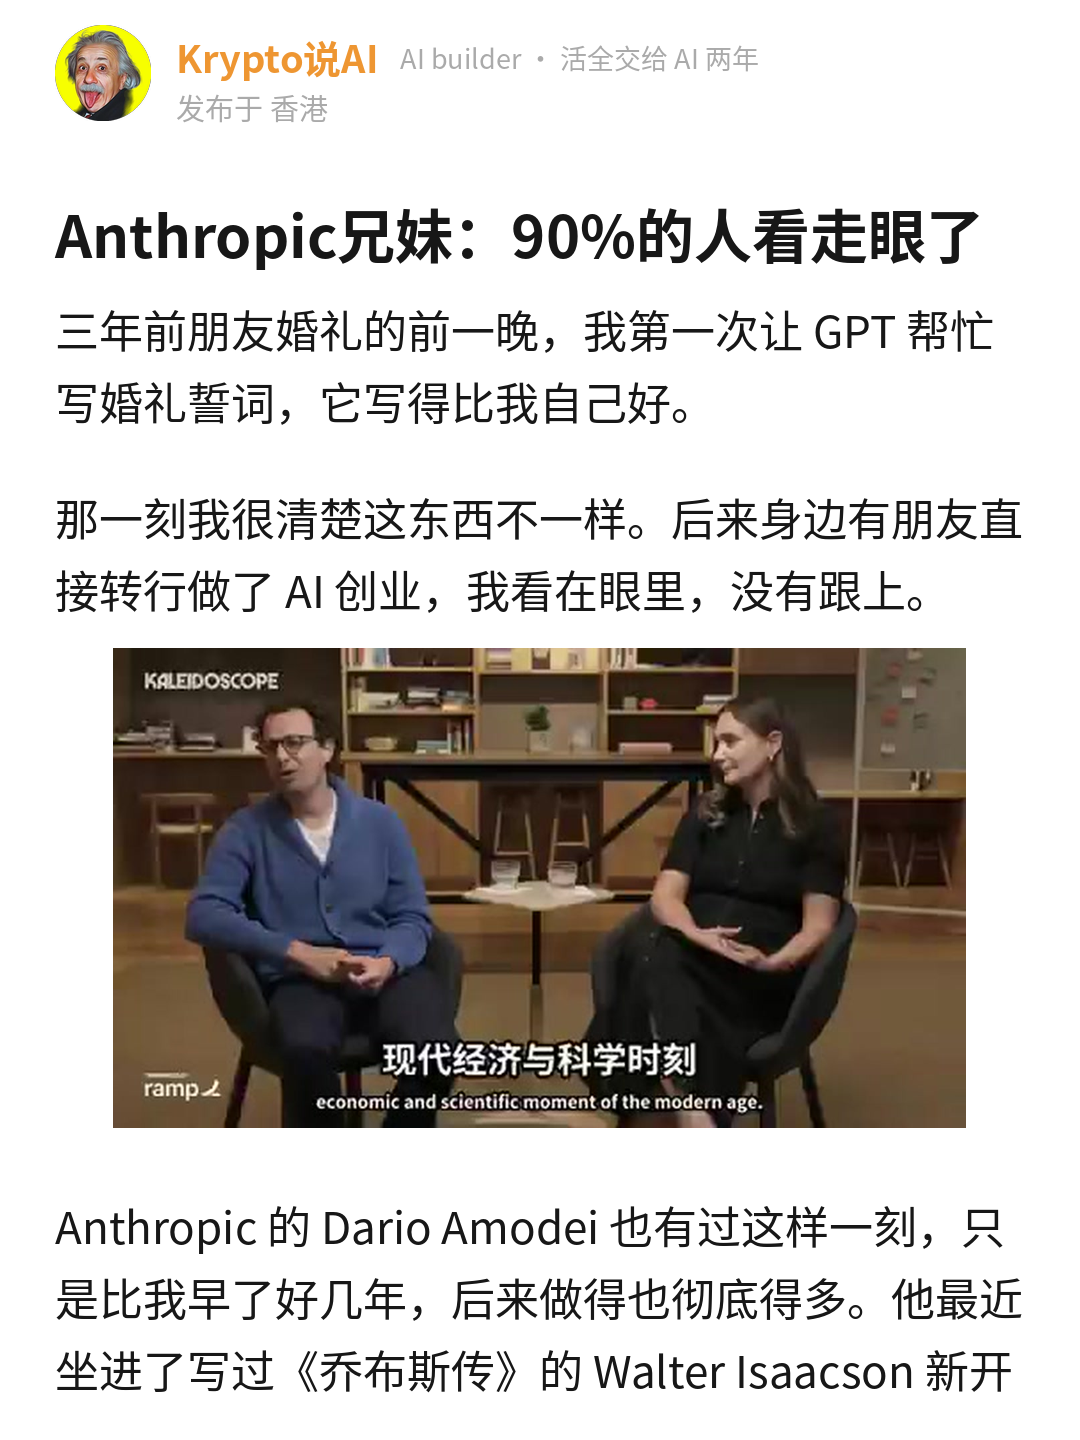
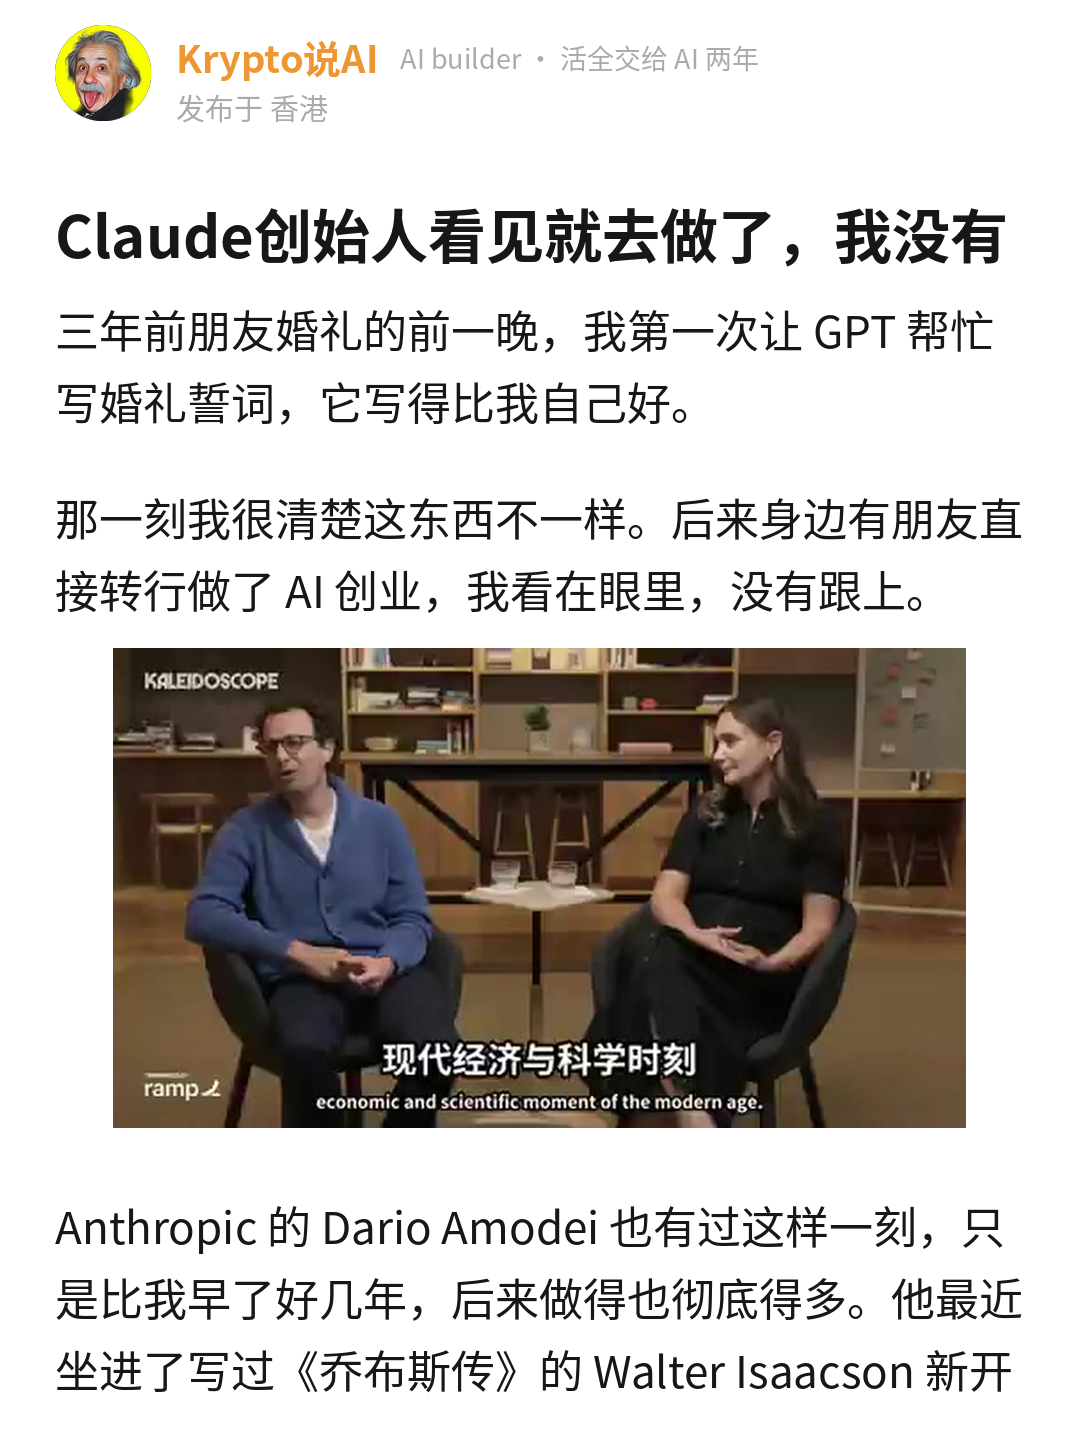
Amodei 稿标题改「Claude创始人看见就去做了，我没有」；标题规则加「标题和首页是同一件事」
Claude-Session: https://claude.ai/code/session_01NaeRTZme2WSEQ2jf3JniCZ

Changed region(s): [[0.0306, 0.125, 0.9472, 0.1875]]

diff --git a/CLAUDE.md b/CLAUDE.md
@@ -3,7 +3,7 @@
 这个仓库是小红书账号 **Krypto说AI** 的工作区，也是它的记忆。在这里做的每一篇稿子，先读本页，再读 `账号/档案.md`、`账号/经历库.md` 和 `账号/爆文方法论.md`（10-14 起，选题 / 标题 / 首图 / 原文跟发的发前清单，交付时逐条写过没过）。每次用户说了新的经历、新的观点、新的规则，写回这两份文件并更新本页摘要，不要只留在对话里。
 
 ## 摘要
-- **10-30 Amodei 兄妹 × Walter Isaacson 访谈稿（meme-v2 第 8 篇，10-29 复盘后第一篇按新规矩写，retell，value 框架，立场 B，`发布/2026-10-30_amodei-isaacson-builders/meme-v2版/`，6 页 + 名片卡，待用户看）**：素材是用户发来的 15 张截图（带中英字幕）+ 42 分钟英文自动转录（去重后存 `编辑用/source.md`）。先问走了，用户答：① 三年前朋友婚礼前夜第一次用 GPT 写誓词，比自己写得好，有朋友直接转行 AI 创业，「没有看走眼但是没有行动」（经历库 #34）；② 六个月 / 十二个月那句不夸大、很写实，觉得夸大的人是没站在 frontier（观点库 #29）；⑥ 你定；⑦ **「不要预设读者的直觉，不要去约束别人的立场后再去反驳或者支持，并都不够有力」→ 撤掉第 ⑦ 问和「读者直觉 → 翻过来」写法**（meme-v2 SKILL 步骤 1 / 2 / 3、writing_guide §4、changelog、本页「写稿前先问」）。stance「能看见 AI 走向的人已经不稀缺，拉开距离的是看见之后那几年做了什么」。骨架：第一句「这两天看完 Anthropic 创始人兄妹的一期访谈，有一段让我愣了很久」→ Isaacson / 兄妹履历 → GPT-2 关键实验和「放大一百万倍」原话 → 一成吓到九成耸肩 → Daniela 小孩学走路比喻 → 嘲笑者在投简历 → 罕见病 + 六个月十二个月 → 我的誓词那晚、看见没动 → 判断一段（回指 a16z「以周为单位」）→ 结尾问「你第一次觉得这东西不一样是哪个晚上？我的是朋友婚礼的前一晚」。首图原版：一行 headline + 两段正文 + 兄妹同框截图（字幕「现代经济与科学时刻」）。图：截图「百分之九十的人」「错得很离谱」+ `timeline.png`（10% / 90% 条 + 6 / 12 个月对照）。check.py 0 ✗ 7 ⚠（新加的三条第一句检查全过；951 字偏短、retell 履历段锚点多是人物稿常态、「愣了很久」的「久」、第三条标题备选关键词靠后，都留）。标题「Anthropic兄妹：90%的人看走眼」，备选「强烈推荐Anthropic兄妹这期访谈。」「看来很多人没看懂Anthropic兄妹」。日志 #8。**用户看初稿两退（10-30）**：① 第一句「这两天看完…有一段让我愣了很久」词穷，规则要抽象化、每篇不一样 → meme-v2 第一句原则改成「前三行里有一个人、一个能画出来的时刻、一件不对劲的事」，writing_guide §3 列七种起法、跟上一篇不同，「汇报看了什么」列进不要；check.py 撤「无我无时间词」，加汇报看了什么 / 背景交代 ⚠ 和「起法跟上一篇同一种」提示；② 婚礼誓词那段「非常独立于主线」→ 读对标六篇（`对标/蒸馏_2026-10-30_个人经历怎么串进主线.md`）：「我」的事是全文的问题或检验台、跟素材关键机制对上、两三次每次推进、衔接不用「我想起」，写进 SKILL 步骤 3 和指南 §4。稿子重写：誓词那晚开篇当问题 → Dario 看见之后去做（力主放大、出来创办 Anthropic）当对照 →「看见的人里还要分两种，看见了去做的和看见了观望的，婚礼那一晚我属于后一种」→ 判断 → 结尾问「后来做了什么」。改前存 `draft_v1_我看了开头_经历独立.md`。**用户看重写版：「这次写得好多了」**，定为 meme-v2 范本（SKILL.md「用户认可的范本」节）；正文.txt 按新结构重写（一成人再分两种 → 我的誓词那晚 → 六个月十二个月 + a16z 回指 → 问读者「后来做了什么」）。待用户：确认「和妹妹、另外五位同事一起离开 OpenAI」这半句、补访谈链接日期、定发布时间
+- **10-30 Amodei 兄妹 × Walter Isaacson 访谈稿（meme-v2 第 8 篇，10-29 复盘后第一篇按新规矩写，retell，value 框架，立场 B，`发布/2026-10-30_amodei-isaacson-builders/meme-v2版/`，6 页 + 名片卡，待用户看）**：素材是用户发来的 15 张截图（带中英字幕）+ 42 分钟英文自动转录（去重后存 `编辑用/source.md`）。先问走了，用户答：① 三年前朋友婚礼前夜第一次用 GPT 写誓词，比自己写得好，有朋友直接转行 AI 创业，「没有看走眼但是没有行动」（经历库 #34）；② 六个月 / 十二个月那句不夸大、很写实，觉得夸大的人是没站在 frontier（观点库 #29）；⑥ 你定；⑦ **「不要预设读者的直觉，不要去约束别人的立场后再去反驳或者支持，并都不够有力」→ 撤掉第 ⑦ 问和「读者直觉 → 翻过来」写法**（meme-v2 SKILL 步骤 1 / 2 / 3、writing_guide §4、changelog、本页「写稿前先问」）。stance「能看见 AI 走向的人已经不稀缺，拉开距离的是看见之后那几年做了什么」。骨架：第一句「这两天看完 Anthropic 创始人兄妹的一期访谈，有一段让我愣了很久」→ Isaacson / 兄妹履历 → GPT-2 关键实验和「放大一百万倍」原话 → 一成吓到九成耸肩 → Daniela 小孩学走路比喻 → 嘲笑者在投简历 → 罕见病 + 六个月十二个月 → 我的誓词那晚、看见没动 → 判断一段（回指 a16z「以周为单位」）→ 结尾问「你第一次觉得这东西不一样是哪个晚上？我的是朋友婚礼的前一晚」。首图原版：一行 headline + 两段正文 + 兄妹同框截图（字幕「现代经济与科学时刻」）。图：截图「百分之九十的人」「错得很离谱」+ `timeline.png`（10% / 90% 条 + 6 / 12 个月对照）。check.py 0 ✗ 7 ⚠（新加的三条第一句检查全过；951 字偏短、retell 履历段锚点多是人物稿常态、「愣了很久」的「久」、第三条标题备选关键词靠后，都留）。标题「Anthropic兄妹：90%的人看走眼」，备选「强烈推荐Anthropic兄妹这期访谈。」「看来很多人没看懂Anthropic兄妹」。日志 #8。**用户看初稿两退（10-30）**：① 第一句「这两天看完…有一段让我愣了很久」词穷，规则要抽象化、每篇不一样 → meme-v2 第一句原则改成「前三行里有一个人、一个能画出来的时刻、一件不对劲的事」，writing_guide §3 列七种起法、跟上一篇不同，「汇报看了什么」列进不要；check.py 撤「无我无时间词」，加汇报看了什么 / 背景交代 ⚠ 和「起法跟上一篇同一种」提示；② 婚礼誓词那段「非常独立于主线」→ 读对标六篇（`对标/蒸馏_2026-10-30_个人经历怎么串进主线.md`）：「我」的事是全文的问题或检验台、跟素材关键机制对上、两三次每次推进、衔接不用「我想起」，写进 SKILL 步骤 3 和指南 §4。稿子重写：誓词那晚开篇当问题 → Dario 看见之后去做（力主放大、出来创办 Anthropic）当对照 →「看见的人里还要分两种，看见了去做的和看见了观望的，婚礼那一晚我属于后一种」→ 判断 → 结尾问「后来做了什么」。改前存 `draft_v1_我看了开头_经历独立.md`。**用户看重写版：「这次写得好多了」**，定为 meme-v2 范本（SKILL.md「用户认可的范本」节）；正文.txt 按新结构重写（一成人再分两种 → 我的誓词那晚 → 六个月十二个月 + a16z 回指 → 问读者「后来做了什么」）。**用户：「标题还缺点意思」**→ 标题 / headline 改「Claude创始人看见就去做了，我没有」（19 字，keyword 改 Claude；原标题讲九成人、首页讲我，各说各的），备选「Anthropic创始人：再放大一百万倍」「强烈推荐Anthropic兄妹这期访谈。」，正文.txt 第一段改成誓词那晚 + Dario 去做了；SKILL 标题规则加「标题和首页是同一件事」。待用户：确认「和妹妹、另外五位同事一起离开 OpenAI」这半句、补访谈链接日期、定发布时间
 - **10-29 数据复盘（`复盘/2026-10-29_数据复盘_v2七篇和v3三篇.md`，截图 `复盘/2026-10-29_后台数据/`，第 1、2 批已读，第 3、4 批待用户发）**：v2 七篇（10-20 到 10-29）合计观看不到 1600、每篇涨粉 1、没有一篇进公域；v3 首图三篇点击率 8.2% / 11.3%，同期其他首图 14 到 23%；四篇爆款（李录 / Wang / 路线图 / 就业报告）全是 meme-xhs 原版，第一句全是「我」在当下做的一件事。「大佬谈 AI」同类稿单调衰减（13 万 → 5.5 万 → 4549 → 609 → 118 → 288），粉丝比路人更不点（a16z 整体 8.2%、粉丝 7%），10-20 后评论 1、1、0、2、0、0。病根：10-21 Ilya 稿三退划的是单字词（用词问题），处理时把叙事者换成了第三人称 36 氪主编，之后六篇第一句镜头全在素材上；v3 把「手机长文截图感」换成了海报。**用户定三条：下一篇切回原版首图；第一句回到「我在当下做的一件事」；第一页就要吸引住新读者。** 已改（全是撤）：meme-v2 SKILL「主编口径只管用词不管叙事者」+ 第一句规则（40 字内、可带反应词、第一段 60 字内锚点 ≤2、履历从第二段起、新闻导语不当第一句）、v3 不默认（只在本篇亲口说且标题是祈使 / 争议句时用）、每页有图降可选、A/B 结果记档；writing_guide §3、cover_guide v3 节同步；check.py 加 3 条 ⚠（第一句无我无时间词 / 第一段超长超锚 / 新闻导语体）。**待用户定**：两周内不发大佬转述、下一篇写自己做的事走 own-xhs、固定一个栏目框连发三篇、图下正文第一句留可吵的点、李录粉丝接不接。Ilya 和招股书实际发布标题跟稿里不同（「强烈推荐大家看一下OpenAI联创Ilya毕业…」「Anthropic招股书：我们都在见证历史」），待确认后回填日志
 - **10-27 Anthropic S-1 招股书稿（meme-v2 第 7 篇，v3 版式，观察，value 框架，立场 D，`发布/2026-10-27_anthropic-s1/meme-v2版/`，11 页，待用户看）**：素材是 Anthropic 10-26 递交 SEC 的 Form S-1（代码 ANT，用 curl 带 UA 从 sec.gov 拉到 14 MB HTML，转纯文本存 `编辑用/source_s1_fulltext.txt`，核对过的数字带行号在 `编辑用/source.md`）。先问走了，用户答「你定，立场 D，价值框架，首图用 S-1 封面截图，后面每一页都要可视化（脑图或数据图）」。stance「以后衡量一家公司先数每个人背后带着多少 agent 再数有多少人；人留在回路里只剩决定做什么、看住它、担责任」。骨架：收入 0.41 亿 → 163 亿（上半年）和净亏 807 亿的拆解 → 员工 940 → 5300、人均收入 140 万 → 660 万、9 月代码 90% 以上 Claude 写、每位工程师日均代码 45 倍 → 读者直觉「程序员要失业」翻成「按人头估产能失效」（回指 a16z 稿十人一周 vs 一人一晚）→ closing the loop 闭环 → 风险因素原话「组织可能失去可见性，任何个人或一群人都难以理解和控制」（引用块 + 原文红框截图）→ 代价用 #25 看板漏 bug → 人留下三件事 → 结尾「一年之后每个人背后带着多少 agent」。图 7 张：S-1 封面两处截图（Playwright 从本地 HTML 按页 div 截，`编辑用/shots.js`）、收入柱状图、人 vs 产出四格、闭环图、五千人 vs 一个人对照卡、交出去 / 留下来脑图。render_illus.py 在云端 `--screenshot` 模式截图失败，改用 `编辑用/illus.js`（Playwright）出图。check.py 0 ✗ 4 ⚠（1155 字差 45、数字 26 / 千字和开头 29 锚点是招股书数据稿、因果连接词 5.2，都留）。标题「Anthropic招股书：代码九成AI写」，备选「强烈建议看看Anthropic招股书。」「Anthropic招股书，我只看一页。」。日志 #7。**用户看稿后定两条：① 内容开头不要用「读者」（「读者按直觉会想」这种起笔）；② 这篇不再结合我自己的案例，「我的案例你已经用过很多次了」**。改前存 `draft_v1_带我的案例.md`：删 #30 十人一周 vs 一人一晚、#25 看板漏 bug、「我自己的小尺度上」那句，对照卡 `same.png` 换成 `risk_map.png`（Claude 内部做的事 → 风险因素三道口子），补招股书自己的内容（算力提前 12 到 18 个月签约利润率先被压、Claude Code 是研发关键工具、错误会拖慢下一代模型）。cost 填「无」。check.py 0 ✗ 5 ⚠。**提醒以后：经历库 #25 #30 已在 4 篇里用过，短期不再拿这两条当「我」的案例，先问出新事再写**。待用户：看稿、定发布时间
 - **10-23 Doug Leone（红杉）播客稿（v3，写稿前先问中，`发布/2026-10-23_doug-leone-sequoia/meme-v2版/编辑用/`）**：用户发来 David Senra 播客的 Doug Leone 访谈转录（2333 行，`source_transcript.txt`）+ 5 张截图（`shots/01-05.jpg`：正面说话、Ramp 广告柱状图、笑、两人对谈两张）。**用户定 v3 新硬规则：每一页都要有图，要么素材截图要么可视化（数据图 / 思维导图式结构图），写进 cover_guide「v3 版式」节。****用户答了三条**（进经历库 #33、观点库 #27 #28）：① 自己画过成长曲线（知识低谷 → 膨胀顶峰 → 继续成长），刚经历 AI 低谷，现在正站在膨胀顶峰、觉得什么都懂了，下一段还没想清楚；② 不赞同「领先几十年靠恐惧」，自己靠好奇和探索欲；③ 三条投资准则不适用产业内的人，「每天做一个，一年做 200 个，直到有一个爆掉」。稿子（`编辑用/draft.md`，v3，9 页）：舞台（26 年 / 65 退 / 69 回 / 90 天一无是处）→ 恐惧那段 + 原话引用块 → 我不赞同（好奇心，`drive.png` 对照卡）→ 承认在膨胀顶峰（`curve.png` 成长曲线，红点「我在这里」）→ 三条准则 → 产业内的人 200 个（`rules.png`，回指 a16z 稿一人一晚）→ 睡车里一周（shots/04）→ 怕的是不再被需要 + 红杉招人标准 → 结尾（shots/05）「69 岁的人还在从最底层重新开始，我没有理由停在膨胀的顶峰」。每页都有图（4 张截图 + 3 张可视化）。stance_line D（默认）、value 框架、reader「刚觉得自己把 AI 用明白了、开始给同事讲课的人」是默认；cost 用他自己承认的膨胀顶峰。第一版「他」每千字 29 被 check 拦下，按 Ilya 稿的规矩改成名字 / 省略 / 内容当主语（改前存 `draft_v1_他太多.md`）。check.py 0 ✗ 6 ⚠（人物稿数字 12 / 千字、开头锚点、电报式分句、无「你」段、末段 71 字，都留）。标题「红杉前掌门：回来90天，我一无是处」，备选「红杉老掌门说的，我只信一半。」「强烈建议看看红杉前掌门这期播客。」。**用户要求按 36 氪 AI 栏目顶尖主笔的文风整体 review**：改前存 `draft_v2_主编口径前.md`。改的是为了避开「他」而写歪的句子（「上门请人回去」「这位前掌门对合伙人说」「在当事人看来」「吓不到这个人」）、「答案分成两半」这类提纲句、「一样东西都不投」「不停折腾」口语，统一成主编句式（「登门相请」「汇报是四个字，一无是处」「恐怕只有他自己清楚」「持续试错、反复折腾」），「他」放开到每千字 8 左右而不是硬避。**用户看首页「底下的文字像被切开，有断层」**：其实是引用块下面空了一截白。render_v3 改成赛博老奶的做法：首页四层之后剩余空间用正文第一段按句填满（首页门槛 90px，块间距收紧，hero 默认最高 290），写稿时第一句要短到一行能放下（这篇改成「Doug Leone 在红杉干了 26 年。」）；cover_guide v3 节加第 5 条。**用户再看页 2 底部「文字没有完整展示」**：分页量高度时段落 margin 折叠到了外面，累计超出页底，render_v3 给量高容器加 `display:flow-root`、页底再留 20px，出图后用脚本扫每页底部 28px 有没有深色像素，两篇都为 0。日志 #6、Notion 稿件日历 #28 待发布。播客日期、链接待用户补

diff --git a/skills/meme-v2/SKILL.md b/skills/meme-v2/SKILL.md
@@ -82,6 +82,7 @@ python3 $M/scripts/render_meme.py "<输出目录>/meme版/编辑用/draft.md" "<
 - 可搜词在前 6 字（路人认识的人名 / 模型名 / 场景词），社会证明是路人认识的名字；
 - 至少一条「情绪 + 名字」（「强烈推荐看看Anthropic就业报告。」）或认知差句（「看来很多人没读懂LobsterAI报告。」）；
 - 20 字以内，不用感叹号和极限词，不以非 keyword 的中文专名开头。
+- **标题和首页是同一件事**（10-30 用户：「标题还缺点意思」；依据 `对标/MemeInformation/叙事与标题手册.md` §4.2 和本号点击率排名）：标题要么是全文的结论、结尾逐字回扣，要么就是正文第一段那件事，读者点进来第一眼看到的就是标题的下半句。本号点击率前列里，「听完李录讲卖出，我想起了卖飞的美光」20.1% 就是「名字 + 我」的对照句。人物稿优先试「名字 + 他做了什么 + 我」的对照（「Claude创始人看见就去做了，我没有」），比「名字：一个数字判断」（「Anthropic兄妹：90%的人看走眼」，判断跟首页的「我」对不上）更像一个人在说话。
 
 `正文.txt`：第一段直接是内容（带主关键词），两三段要点，有可回指的旧稿加半句，领取物原样贴，最后 3 到 6 个标签。1000 字以内。跑 `skills/youtube-xhs/scripts/check_paste.py` 和 `post_log.py add --series meme-v2`。
 

diff --git a/发布/2026-10-30_amodei-isaacson-builders/meme-v2版/编辑用/draft.md b/发布/2026-10-30_amodei-isaacson-builders/meme-v2版/编辑用/draft.md
@@ -1,14 +1,14 @@
 ---
-title: Anthropic兄妹：90%的人看走眼
+title: Claude创始人看见就去做了，我没有
 mode: retell
 value: 框架
 stance: 看见 AI 走向的人里还要再分两种，看见了去做的和看见了观望的；拉开距离的是看见之后那几年，「六个月、十二个月」不是夸大，只是离前沿远的人只看得见每一项都还不够好
 stance_line: B
 reader: 第一次被 AI 写的东西惊到、第二天又照常回去上班的人
 cost: 三年前就觉得 GPT 写的誓词比我好，眼看朋友转行做 AI 创业，自己没有动
-keyword: Anthropic
-keywords: Anthropic, Dario Amodei, Claude, GPT-2, Walter Isaacson
-headline: Anthropic兄妹：90%的人看走眼了
+keyword: Claude
+keywords: Claude, Anthropic, Dario Amodei, Claude, GPT-2, Walter Isaacson
+headline: Claude创始人看见就去做了，我没有
 hero: shots/01_01_开场_Walter_Isaacson.jpg
 hero_after: 2
 location: 香港
